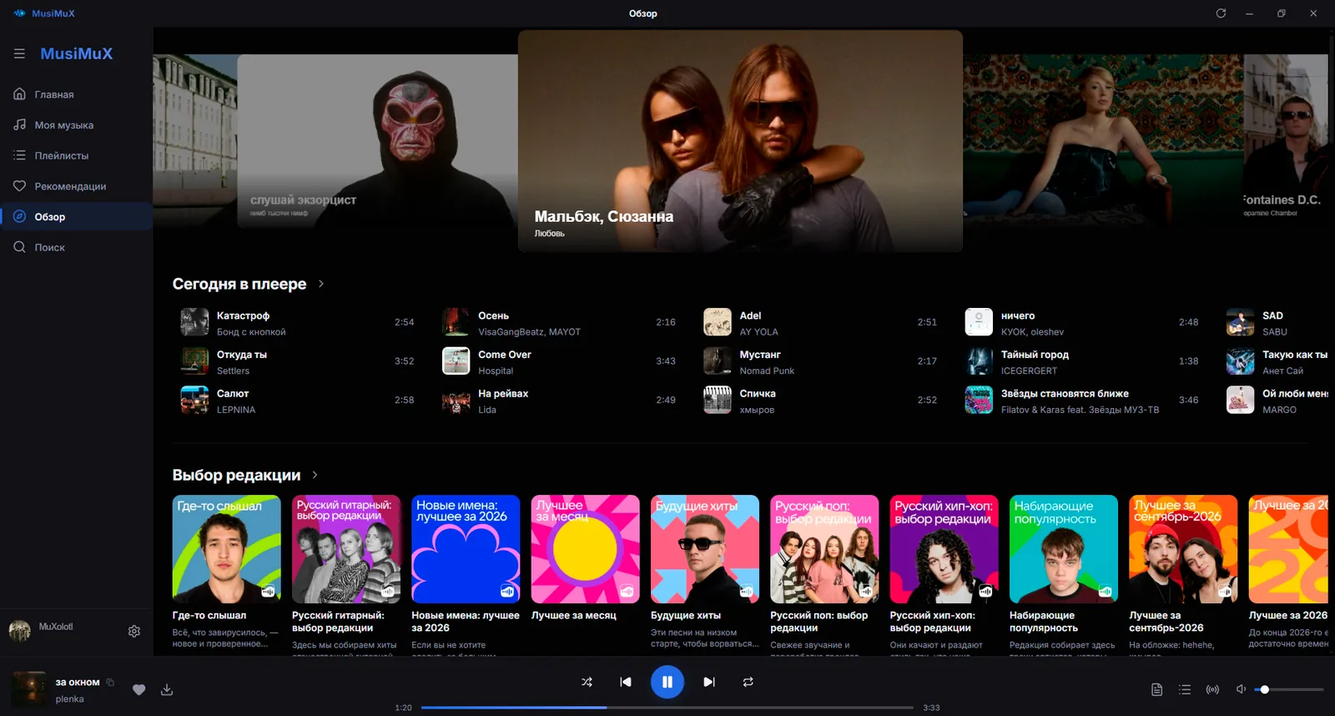
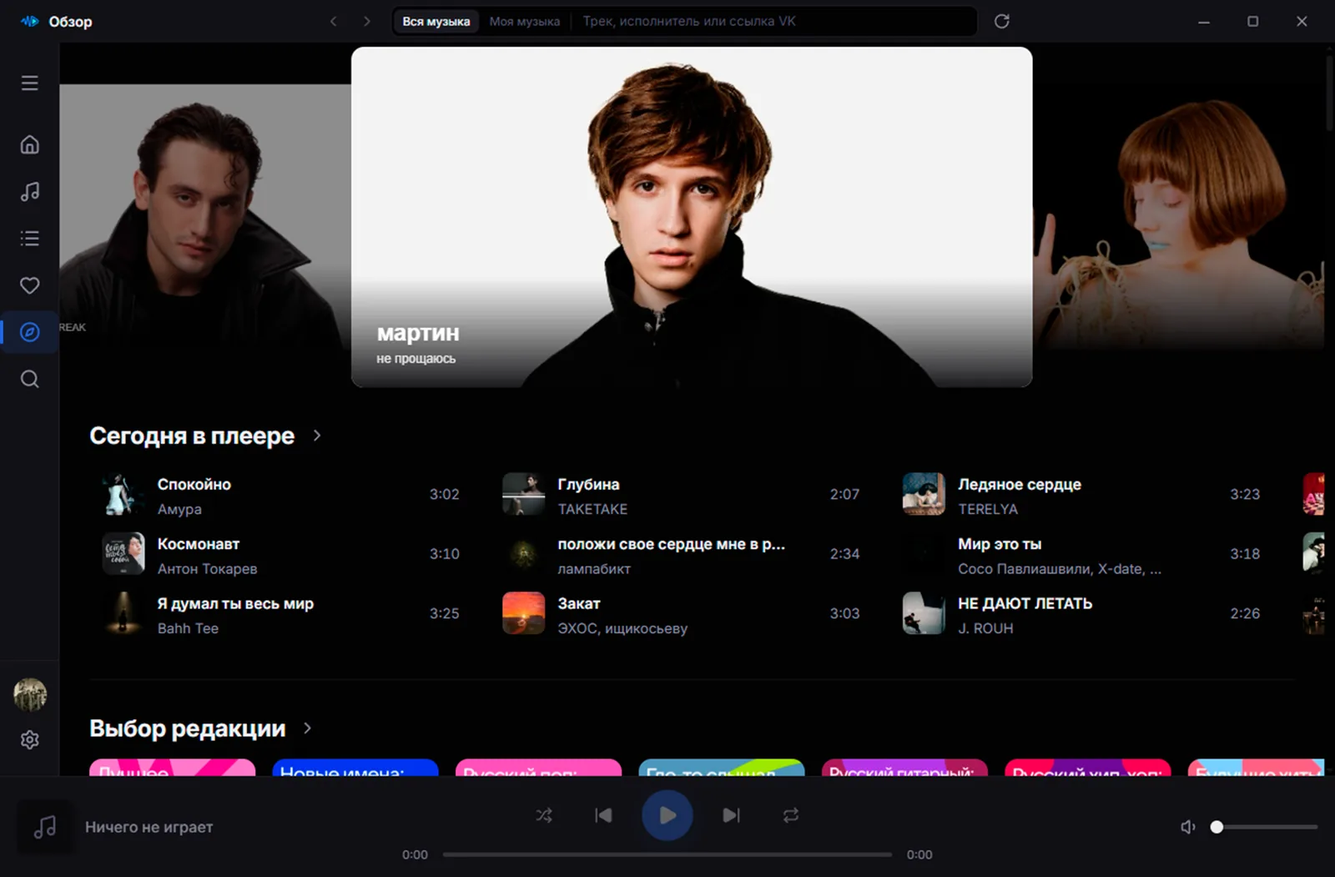
Обновление сайта и документации

diff --git a/site/index.html b/site/index.html
@@ -19,6 +19,7 @@
 <body>
 <svg width="0" height="0" style="position:absolute" aria-hidden="true">
 <symbol id="i-file-text" viewBox="0 0 24 24" fill="none" stroke="currentColor" stroke-width="2" stroke-linecap="round" stroke-linejoin="round"><path d="M15 2H6a2 2 0 0 0-2 2v16a2 2 0 0 0 2 2h12a2 2 0 0 0 2-2V7Z"/><path d="M14 2v4a2 2 0 0 0 2 2h4"/><path d="M10 9H8"/><path d="M16 13H8"/><path d="M16 17H8"/></symbol>
+<symbol id="i-link" viewBox="0 0 24 24" fill="none" stroke="currentColor" stroke-width="2" stroke-linecap="round" stroke-linejoin="round"><path d="M10 13a5 5 0 0 0 7.54.54l3-3a5 5 0 0 0-7.07-7.07l-1.72 1.71"/><path d="M14 11a5 5 0 0 0-7.54-.54l-3 3a5 5 0 0 0 7.07 7.07l1.71-1.71"/></symbol>
 <symbol id="i-chevron-right" viewBox="0 0 24 24" fill="none" stroke="currentColor" stroke-width="2" stroke-linecap="round" stroke-linejoin="round"><polyline points="9 18 15 12 9 6"/></symbol>
 <symbol id="i-music" viewBox="0 0 24 24" fill="none" stroke="currentColor" stroke-width="2" stroke-linecap="round" stroke-linejoin="round"><path d="M9 18V5l12-2v13"/><circle cx="6" cy="18" r="3"/><circle cx="18" cy="16" r="3"/></symbol>
 <symbol id="i-compass" viewBox="0 0 24 24" fill="none" stroke="currentColor" stroke-width="2" stroke-linecap="round" stroke-linejoin="round"><circle cx="12" cy="12" r="10"/><polygon points="16.24 7.76 14.12 14.12 7.76 16.24 9.88 9.88 16.24 7.76"/></symbol>
@@ -77,31 +78,31 @@
   <div class="wrap">
     <div class="shot-head">
       <h2>Как выглядит MusiMuX</h2>
-      <p>Это настоящие скриншоты приложения на Windows.</p>
+      <p>Это настоящие скриншоты приложения на Windows. Переключайте экраны — от поиска и «Моей музыки» до страницы артиста и текста песни.</p>
     </div>
     <div class="shot-scenes" role="group" aria-label="Выбор экрана" hidden>
       <button type="button" data-shot="home" aria-pressed="true">Главная</button>
       <button type="button" data-shot="explore" aria-pressed="false">Обзор</button>
       <button type="button" data-shot="search" aria-pressed="false">Поиск</button>
+      <button type="button" data-shot="subscriptions" aria-pressed="false">Подписки</button>
+      <button type="button" data-shot="artist" aria-pressed="false">Артист</button>
       <button type="button" data-shot="nowplaying" aria-pressed="false">Сейчас играет</button>
-      <button type="button" data-shot="sound" aria-pressed="false">Звук</button>
-      <button type="button" data-shot="account" aria-pressed="false">Аккаунты</button>
     </div>
     <div class="shot-frame">
-      <img data-shot-panel="home" src="images/screens/home.webp" width="1600" height="863" alt="Главная страница MusiMuX: кнопка «Слушать микс», подборки «Собрано алгоритмами» и жанры, внизу — панель плеера">
-      <img data-shot-panel="explore" src="images/screens/explore.webp" width="1600" height="858" loading="lazy" alt="Раздел «Обзор»: баннеры, треки блока «Сегодня в плеере» и подборки «Выбор редакции»" hidden>
-      <img data-shot-panel="search" src="images/screens/search.webp" width="1600" height="859" loading="lazy" alt="Поиск по запросу «Plenka»: свои треки, все треки каталога и альбомы исполнителя" hidden>
-      <img data-shot-panel="nowplaying" src="images/screens/nowplaying.webp" width="1600" height="865" loading="lazy" alt="Экран «Сейчас играет»: крупная обложка трека «На луне» и синхронизированный текст песни справа" hidden>
-      <img data-shot-panel="sound" src="images/screens/sound.webp" width="1600" height="860" loading="lazy" alt="Настройки звука: десятиполосный эквалайзер с пресетом «Басы» и настройки кроссфейда" hidden>
-      <img data-shot-panel="account" src="images/screens/account.webp" width="1600" height="862" loading="lazy" alt="Настройки аккаунта: список подключённых аккаунтов и переключатель истории прослушивания; имена и ID скрыты" hidden>
+      <img data-shot-panel="home" src="images/screens/home.webp" width="1600" height="1051" alt="Главная страница MusiMuX: кнопка «Слушать микс», подборки «Собрано алгоритмами» и жанры, вверху — поиск с областью «Вся музыка» или «Моя музыка»">
+      <img data-shot-panel="explore" src="images/screens/explore.webp" width="1600" height="1051" loading="lazy" alt="Раздел «Обзор»: баннеры, треки блока «Сегодня в плеере» и подборки «Выбор редакции»" hidden>
+      <img data-shot-panel="search" src="images/screens/search.webp" width="1600" height="1051" loading="lazy" alt="Выдача поиска по запросу «plenka»: свои треки, все треки каталога и альбомы исполнителя, вверху — поле поиска с областью «Вся музыка» или «Моя музыка»" hidden>
+      <img data-shot-panel="subscriptions" src="images/screens/subscriptions.webp" width="1600" height="1051" loading="lazy" alt="Вкладка «Подписки»: музыканты и кураторы, на которых подписан аккаунт" hidden>
+      <img data-shot-panel="artist" src="images/screens/artist.webp" width="1600" height="1051" loading="lazy" alt="Страница артиста: обложка, «Слушать», «Микс по артисту», «Подписаться», популярные треки и релизы" hidden>
+      <img data-shot-panel="nowplaying" src="images/screens/nowplaying.webp" width="1600" height="1051" loading="lazy" alt="Экран «Сейчас играет»: обложка с управлением, прогресс, кнопки текста и синхронизированный текст песни справа с панелью источника" hidden>
     </div>
     <div class="shot-caption" aria-live="polite">
       <p data-shot-caption="home"><b>Главная.</b> Микс под ваш вкус, подборки от алгоритмов и жанры.</p>
       <p data-shot-caption="explore" hidden><b>Обзор.</b> Баннеры, «Сегодня в плеере» и подборки редакции.</p>
-      <p data-shot-caption="search" hidden><b>Поиск.</b> Свои треки и весь каталог, альбомы — с подсказками по мере ввода.</p>
-      <p data-shot-caption="nowplaying" hidden><b>Сейчас играет.</b> Крупная обложка и текст песни, который подсвечивается по ходу трека.</p>
-      <p data-shot-caption="sound" hidden><b>Звук.</b> Эквалайзер на десять полос со своими пресетами и кроссфейд между треками.</p>
-      <p data-shot-caption="account" hidden><b>Аккаунты.</b> Несколько аккаунтов VK в одном приложении. Имена на скриншоте замазаны.</p>
+      <p data-shot-caption="search" hidden><b>Поиск.</b> Поле в шапке видно из любого раздела: «Вся музыка» ищет по всему каталогу, «Моя музыка» — только по добавленным трекам.</p>
+      <p data-shot-caption="subscriptions" hidden><b>Подписки.</b> Музыканты и кураторы, на которых вы подписаны, с переходом на их страницы.</p>
+      <p data-shot-caption="artist" hidden><b>Артист.</b> Популярное, релизы, «Микс по артисту», подписка и ссылка на страницу в VK.</p>
+      <p data-shot-caption="nowplaying" hidden><b>Сейчас играет.</b> Крупная обложка и текст песни: источник можно выбрать, строки подсвечиваются по ходу трека.</p>
     </div>
   </div>
 </section>
@@ -126,17 +127,22 @@
     <div class="feature">
       <span class="ic"><svg width="18" height="18"><use href="#i-search"/></svg></span>
       <h3>Поиск</h3>
-      <p>Ищет треки, исполнителей, альбомы и плейлисты, подсказывает по мере ввода и ведёт локальную историю запросов отдельно для каждого аккаунта — её можно отключить или очистить. У исполнителей — свои страницы с популярными треками, релизами и кнопкой «Микс по артисту».</p>
+      <p>Одно поле в шапке — доступно из любого раздела. Слева выбирается область: «Вся музыка» ищет треки, альбомы, плейлисты, исполнителей и кураторов, «Моя музыка» — только добавленные треки. Подсказки появляются по мере ввода, история запросов хранится локально отдельно для каждого аккаунта — её можно отключить или очистить.</p>
+    </div>
+    <div class="feature">
+      <span class="ic"><svg width="18" height="18"><use href="#i-link"/></svg></span>
+      <h3>Ссылки VK</h3>
+      <p>Ссылка, вставленная в поиск, открывает то, на что она указывает: трек, плейлист, альбом, исполнителя, куратора или раздел. Ссылка на трек открывает окно трека — обложка включает воспроизведение, рядом «В мою музыку», «Микс по треку», «Открыть альбом», «В плейлист» и переход на страницу трека в VK, ниже — похожие треки.</p>
     </div>
     <div class="feature">
       <span class="ic"><svg width="18" height="18"><use href="#i-file-text"/></svg></span>
       <h3>Текст песни</h3>
-      <p>Если текст синхронизирован, строки подсвечиваются по ходу песни, как в караоке, а клик по строке сразу перематывает трек к нужному куплету. Если таймкодов нет — покажется обычный текст, а весь текст целиком можно скопировать в один клик. Есть экран «Сейчас играет» на всё окно.</p>
+      <p>Текст ищется сразу в десяти источниках: варианты появляются по мере ответа, синхронизированный выбирается сам, а меню у текста показывает, откуда он и какие ещё есть. Строки с таймкодами подсвечиваются по ходу песни и продолжают следовать за ней после ручной прокрутки; клик по строке перематывает трек, текст выравнивается по центру или слева и копируется целиком. Есть экран «Сейчас играет» на всё окно.</p>
     </div>
     <div class="feature">
       <span class="ic"><svg width="18" height="18"><use href="#i-download"/></svg></span>
       <h3>Скачивание и загрузка</h3>
-      <p>Треки, плейлисты и альбомы скачиваются в MP3 — с названием, исполнителем и обложкой в тегах файла. Свои MP3 до 200 МБ можно наоборот загрузить в «Мою музыку».</p>
+      <p>Треки, плейлисты и альбомы скачиваются в MP3 — с названием, исполнителем и обложкой в тегах файла. Свои MP3 до 200 МБ можно наоборот загрузить в «Мою музыку»: названия и исполнители правятся прямо в очереди до отправки.</p>
     </div>
     <div class="feature">
       <span class="ic"><svg width="18" height="18"><use href="#i-sliders"/></svg></span>
@@ -174,7 +180,7 @@
       <p>У проекта нет сервера, через который проходили бы ваши запросы и данные. Приложение на вашем компьютере обращается к VK само — от вашего имени и напрямую.</p>
     </div>
     <div class="points">
-      <div class="point"><span class="dot"></span><div><h3>Запросы идут напрямую</h3><p>Вход, каталог и сама музыка — между вашим компьютером и VK. Посередине никого нет, собирать и продавать просто некому и нечего.</p></div></div>
+      <div class="point"><span class="dot"></span><div><h3>Запросы идут напрямую</h3><p>Вход, каталог и сама музыка — между вашим компьютером и VK. Тексты песен, которых нет у VK, приложение ищет в открытых каталогах текстов: туда уходят только исполнитель и название трека — без аккаунта, токена и истории. Посередине никого нет, собирать и продавать просто некому и нечего.</p></div></div>
       <div class="point"><span class="dot"></span><div><h3>Данные лежат у вас</h3><p>Токены аккаунтов, настройки, кеш обложек и скачанные MP3 хранятся на вашем компьютере — и больше нигде.</p></div></div>
       <div class="point"><span class="dot"></span><div><h3>Что сохранять и отправлять — настраивается</h3><p>Трансляция текущего трека в статус по умолчанию выключена, а отправку истории прослушивания в VK и локальную историю поисковых запросов можно отключить в любой момент.</p></div></div>
       <div class="point"><span class="dot"></span><div><h3>Бесплатно и без рекламы</h3><p>Со стороны приложения нет ни тарифов, ни баннеров. MusiMuX не добавляет ограничений сверх тех, что уже есть у вашего аккаунта.</p></div></div>

diff --git a/site/about.html b/site/about.html
@@ -55,6 +55,7 @@
     <h2>Как устроено</h2>
     <p>Главное: у MusiMuX нет своего сервера. Когда вы входите в аккаунт, открываете каталог или включаете трек, приложение обращается к VK напрямую с вашего компьютера. Я физически не могу увидеть ваши запросы, токены и историю — им просто некуда мне отправляться.</p>
     <p>Токены аккаунтов, настройки, кеш обложек и скачанные файлы лежат у вас на диске. Для работы нужен интернет и аккаунт VK: офлайн-плеером для локальных файлов MusiMuX не является. Что приложение отправляет в VK от вашего имени — например, историю прослушивания или трансляцию трека в статус, — настраивается, а трансляция и вовсе выключена по умолчанию.</p>
+    <p>Единственное исключение из «только VK» — тексты песен. Если у VK текста нет, приложение спрашивает открытые каталоги текстов (среди них LRCLIB, Genius, NetEase и другие) и передаёт им только исполнителя и название трека: ни токен, ни аккаунт, ни история туда не уходят.</p>
   </section>
   <section>
     <h2>Технологии</h2>
@@ -74,10 +75,11 @@
       <li><svg width="15" height="15"><use href="#i-check"/></svg><span>Вкладки «Недавнее» и «Подписки»: прослушанное и музыканты с кураторами, на которых вы подписаны</span></li>
       <li><svg width="15" height="15"><use href="#i-check"/></svg><span>Создание и редактирование плейлистов, добавление треков и фильтры «Все», «Мои» и «Добавленные»</span></li>
       <li><svg width="15" height="15"><use href="#i-check"/></svg><span>Главная, Обзор и Рекомендации: подборки, миксы с оценкой «Не нравится», новинки, чарты, жанры</span></li>
-      <li><svg width="15" height="15"><use href="#i-check"/></svg><span>Поиск с живыми подсказками по мере набора и отключаемой локальной историей запросов отдельно для каждого аккаунта</span></li>
+      <li><svg width="15" height="15"><use href="#i-check"/></svg><span>Один поиск в шапке: область «Вся музыка» или «Моя музыка», подсказки по мере набора и отключаемая локальная история запросов отдельно для каждого аккаунта</span></li>
+      <li><svg width="15" height="15"><use href="#i-check"/></svg><span>Ссылки VK, вставленные в поиск: трек, плейлист, альбом, исполнитель, куратор и раздел открываются сразу, а ссылка на трек — с окном трека, действиями и похожими треками</span></li>
       <li><svg width="15" height="15"><use href="#i-check"/></svg><span>Страницы исполнителей: «Микс по артисту», копирование ссылки и переход в VK</span></li>
       <li><svg width="15" height="15"><use href="#i-check"/></svg><span>Меню трека: похожие треки, ссылка на трек, альбом с переходом на его страницу и причина, если трек недоступен</span></li>
-      <li><svg width="15" height="15"><use href="#i-check"/></svg><span>Текст песни с караоке-режимом и экран «Сейчас играет»</span></li>
+      <li><svg width="15" height="15"><use href="#i-check"/></svg><span>Текст песни из десяти источников: варианты по мере ответа, синхронизированный выбирается сам, меню с выбором источника, строки следуют за треком, выравнивание по центру или слева и экран «Сейчас играет»</span></li>
       <li><svg width="15" height="15"><use href="#i-check"/></svg><span>Скачивание треков, плейлистов и альбомов в MP3 с тегами</span></li>
       <li><svg width="15" height="15"><use href="#i-check"/></svg><span>Загрузка собственных MP3 в «Мою музыку» — до 200 МБ на файл, с очередью, прогрессом, редактированием названия и исполнителя, отменой и повтором</span></li>
       <li><svg width="15" height="15"><use href="#i-check"/></svg><span>Эквалайзер и кроссфейд между треками</span></li>

diff --git a/site/css/styles.css b/site/css/styles.css
@@ -229,6 +229,8 @@ svg { display: block; flex-shrink: 0; }
    поэтому последняя карточка занимает всю ширину и читается лентой */
 .features > .feature:last-child:nth-child(3n + 1) { grid-column: 1 / -1; }
 .features > .feature:last-child:nth-child(3n + 1) p { max-width: 78ch; }
+/* Две плитки в последнем ряду: вторая растягивается на оставшиеся колонки */
+.features > .feature:last-child:nth-child(3n + 2) { grid-column: span 2; }
 .feature {
   padding: 22px; border: 1px solid var(--border); border-radius: var(--radius);
   background: var(--bg-surface);

diff --git a/README.md b/README.md
@@ -10,10 +10,11 @@
 - Вкладки «Недавнее» и «Подписки»: прослушанное и музыканты с кураторами, на которых вы подписаны
 - Создание и редактирование плейлистов, добавление треков и фильтры «Все», «Мои» и «Добавленные»
 - Главная, Обзор и Рекомендации: персональные подборки, миксы с оценкой «Не нравится», новинки, чарты, жанры
-- Поиск с живыми подсказками по мере набора и отключаемой локальной историей запросов отдельно для каждого аккаунта
+- Один поиск в шапке с областью «Вся музыка» или «Моя музыка», подсказки по мере набора и отключаемая локальная история запросов отдельно для каждого аккаунта
+- Ссылки VK, вставленные в поиск: трек, плейлист, альбом, исполнитель, куратор и раздел открываются сразу; по ссылке на трек — окно трека с обложкой, действиями и похожими треками
 - Страницы исполнителей: «Микс по артисту», копирование ссылки и переход в VK
 - Меню трека: похожие треки, ссылка на трек, альбом с переходом на его страницу и причина, если трек недоступен
-- Текст песни с караоке-режимом, перемоткой по клику на строку, копированием всего текста и полноэкранным режимом «Сейчас играет»
+- Текст песни из десяти источников с выбором варианта: синхронизированный выбирается сам, строки следуют за треком, перемотка по клику, выравнивание по центру или слева, копирование текста и полноэкранный режим «Сейчас играет»
 - Скачивание треков, плейлистов и альбомов в MP3 с тегами и обложкой; очередь закачек с лимитом, отменой и повтором
 - Загрузка собственных MP3 до 200 МБ в «Мою музыку» с очередью, прогрессом, отменой и повтором
 - Эквалайзер и кроссфейд между треками
@@ -22,7 +23,7 @@
 - Трансляция текущего трека в статус — по желанию, выключена по умолчанию
 - Автообновления с GitHub Releases (уведомление / автоматически / вручную — на выбор)
 
-Приложение работает без своих серверов: токен, настройки, кеш и скачанные файлы хранятся только на вашем компьютере.
+Приложение работает без своих серверов: токен, настройки, кеш и скачанные файлы хранятся только на вашем компьютере. Тексты песен, которых нет у VK, ищутся в открытых каталогах текстов, куда уходят только исполнитель и название трека.
 
 ## Скачать
 

diff --git a/docs/API.md b/docs/API.md
@@ -539,6 +539,13 @@ artist/audio/playlist/video и другие блоки; `market_items` в нём
 generated-плейлистов могут обновляться; ID, ключи и числа из карточек не являются
 постоянными значениями контракта.
 
+Пустая коллекция приходит как `audios: null` — это наблюдалось на плейлисте
+закрытого сообщества, где `count` равен 17, а шапка пришла с тремя треками в
+`playlist.audios`. У плейлиста, добавленного в медиатеку, объект `playlist`
+содержит `followed: { "owner_id": <пользователь>, "playlist_id": <запись> }` —
+запись в библиотеке: `audio.get` по этой паре отдаёт треки, тогда как по
+оригиналу VK отвечает ошибкой 15 «no access to this group» даже с `access_key`.
+
 Прочие функции приложения: `execute.getPodcastEpisodesWithInfo` (`owner_id`, `count=100`, `offset=0`, `func_v=4`) — эпизоды подкаста с метаданными.
 
 #### `execute.getUserInfo`
